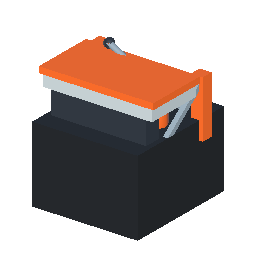
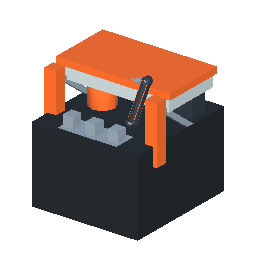
Bridge Device Simulator wheel input and refine map/shop layout

Changed region(s): [[0.1562, 0.0938, 0.8438, 0.6562]]

diff --git a/SpheerURP/Assets/Frontier/Tests/PlayMode/SmokeTests.cs b/SpheerURP/Assets/Frontier/Tests/PlayMode/SmokeTests.cs
@@ -1731,6 +1731,80 @@ namespace Frontier.Tests
             runtime.Ui.DebugReset();
         }
 
+#if UNITY_EDITOR
+        [UnityTest]
+        public IEnumerator DeviceSimulatorPreviewWheelReachesWorldAndMapWithoutLegacyMouseInput()
+        {
+            var simulatorType = typeof(UnityEditor.DeviceSimulation.DeviceSimulatorPlugin).Assembly
+                .GetType("UnityEditor.DeviceSimulation.SimulatorWindow", true);
+            var window = UnityEditor.EditorWindow.GetWindow(simulatorType);
+            window.Show();
+            window.Focus();
+            try
+            {
+                new GameObject("SimulatorWheelBootstrap").AddComponent<FrontierBootstrap>();
+                float deadline = Time.realtimeSinceStartup + 30;
+                while (FrontierRuntime.Current == null && Time.realtimeSinceStartup < deadline) yield return null;
+                var rt = FrontierRuntime.Current;
+                Assert.IsNotNull(rt);
+                deadline = Time.realtimeSinceStartup + 20;
+                while (rt.Ui.DebugBusy && Time.realtimeSinceStartup < deadline) yield return null;
+                rt.State.DismissFirstSessionGuide();
+                rt.Ui.DebugReset();
+                rt.Planet.Zoom01 = 0f;
+                yield return new WaitForSecondsRealtime(1f);
+                var view = window.rootVisualElement.Query<VisualElement>().ToList()
+                    .FirstOrDefault(element => element.GetType().FullName == "UnityEditor.DeviceSimulation.DeviceView");
+                Assert.IsNotNull(view, "Exercise Unity's actual Simulator preview, not a stand-in panel.");
+                Assert.Greater(view.worldBound.width, 0f);
+                string lastTarget = "";
+                Assert.IsTrue(window.rootVisualElement.Query<Label>().ToList()
+                    .Any(label => label.text.StartsWith("Scroll over the simulated screen")),
+                    "Unity must discover and attach the Frontier Simulator plugin.");
+                rt.Ui.DebugRoot.RegisterCallback<WheelEvent>(evt =>
+                {
+                    var target = evt.target as VisualElement;
+                    lastTarget = target == null ? "(none)" : target.name + " at " + evt.mousePosition;
+                }, TrickleDown.TrickleDown);
+                void Wheel(float delta)
+                {
+                    using (var evt = WheelEvent.GetPooled(new Event { type = EventType.ScrollWheel,
+                        mousePosition = view.worldBound.center, delta = new Vector2(0f, delta) }))
+                    {
+                        evt.target = view;
+                        view.SendEvent(evt);
+                    }
+                }
+                Wheel(-3f);
+                yield return null;
+                Assert.AreEqual(0.12f, rt.Planet.Zoom01, 0.001f,
+                    "The actual Simulator preview tree must forward wheel events to the runtime panel.");
+                Wheel(3f);
+                yield return null;
+                Assert.AreEqual(0f, rt.Planet.Zoom01, 0.001f);
+                Wheel(3f);
+                yield return null;
+                Wheel(3f);
+                Assert.IsTrue(rt.Ui.DebugMapMinimal, "Outward Simulator scrolling must enter the minimal map.");
+                yield return new WaitForSecondsRealtime(0.8f);
+                Wheel(-3f);
+                yield return new WaitForSecondsRealtime(1.4f);
+                Assert.IsFalse(rt.Ui.DebugMapOpen, "Simulator scrolling must also reach the map's return gesture. Last target: " + lastTarget);
+                rt.Ui.DebugShop(0);
+                yield return null;
+                var shopScroll = rt.Ui.DebugRoot.Q<FrontierModal>().Q<ScrollView>();
+                Assert.IsNotNull(shopScroll);
+                float scrollBefore = shopScroll.scrollOffset.y;
+                Wheel(30f);
+                yield return null;
+                Assert.Greater(shopScroll.scrollOffset.y, scrollBefore,
+                    "Simulator wheel input over a shop must scroll its real content, not only be ignored by zoom.");
+                Assert.IsFalse(rt.Ui.DebugMapOpen, "Wheel events over the shop must not leak into world zoom.");
+            }
+            finally { window.Close(); }
+        }
+#endif
+
         [UnityTest]
         public IEnumerator WorldOverzoomTransitionsToMinimalMapAndControlsStayOptional()
         {
@@ -1808,6 +1882,18 @@ namespace Frontier.Tests
             Assert.AreEqual(DisplayStyle.None, rt.Ui.DebugRoot.Q(className: "fr-map-card").resolvedStyle.display);
             Assert.AreEqual(DisplayStyle.None, rt.Ui.DebugRoot.Q(className: "fr-map-search").resolvedStyle.display);
             Assert.AreEqual(DisplayStyle.Flex, rt.Ui.DebugRoot.Q("map-location-bar").resolvedStyle.display);
+            var minimalAxes = rt.Ui.DebugMapOrbitAxes(rt.State.planet);
+            Assert.AreEqual(0.65f, minimalAxes.y / minimalAxes.x, 0.0001f);
+            var info = rt.Ui.DebugRoot.Q<Button>("map-show-controls");
+            Assert.IsTrue(info.Query<Label>().ToList().Any(label => label.text == "Info"));
+            using (var submit = NavigationSubmitEvent.GetPooled()) { submit.target = info; info.SendEvent(submit); }
+            yield return null;
+            var fullAxes = rt.Ui.DebugMapOrbitAxes(rt.State.planet);
+            Assert.AreEqual(minimalAxes.y / minimalAxes.x, fullAxes.y / fullAxes.x, 0.0001f,
+                "Showing or hiding map info may resize the chart uniformly, never stretch its orbits vertically.");
+            var hideInfo = rt.Ui.DebugRoot.Q<Button>("map-hide-controls");
+            using (var submit = NavigationSubmitEvent.GetPooled()) { submit.target = hideInfo; hideInfo.SendEvent(submit); }
+            yield return null;
             var location = rt.Ui.DebugRoot.Q<Label>("map-location");
             Assert.AreEqual(UiText.Get("map.location.planet", rt.State.planet.Name, rt.State.planet.Star.Name), location.text);
             rt.Ui.DebugMapZoomStep(false);
@@ -2978,7 +3064,7 @@ namespace Frontier.Tests
                     var lockOverlay = card.Q("shop-research-lock");
                     Assert.AreEqual(lockOverlay == null ? card[0] : card, track.parent);
                     var content = lockOverlay == null ? card : card[0];
-                    Assert.AreEqual(content[content.childCount - 1], count, "Build count is the bottom-right item.");
+                    Assert.AreEqual(content[content.childCount - 2], count, "Build count sits just above the purchase row.");
                     Assert.AreEqual(Align.FlexEnd, count.resolvedStyle.alignSelf);
                     Assert.Less(track.worldBound.yMin, count.worldBound.yMin);
                     var place = card.Q<Button>("shop-place-" + id);
@@ -2986,6 +3072,8 @@ namespace Frontier.Tests
                     Assert.IsNotNull(place, "All Build cards expose their normal purchase action.");
                     Assert.IsNotNull(shardBuy, "All Build cards expose their shard purchase action.");
                     Assert.AreSame(place.parent, shardBuy.parent, "Both purchase options stay on the same row.");
+                    Assert.LessOrEqual(count.worldBound.yMax, place.worldBound.yMin + 1f,
+                        "The right-aligned count belongs above Place/shards, not below them.");
                     var definition = rt.Db.FindStructure(id);
                     if (rt.State.AtLimit(rt.State.planet, definition) || !rt.State.CanBuildHere(definition))
                     {

diff --git a/SpheerURP/Assets/Frontier/Editor/DeviceSimulatorWheelPlugin.cs b/SpheerURP/Assets/Frontier/Editor/DeviceSimulatorWheelPlugin.cs
@@ -1,0 +1,92 @@
+#if UNITY_EDITOR
+using System;
+using System.Reflection;
+using UnityEditor;
+using UnityEditor.DeviceSimulation;
+using UnityEngine;
+using UnityEngine.UIElements;
+
+namespace Frontier.EditorTools
+{
+    public sealed class DeviceSimulatorWheelPlugin : DeviceSimulatorPlugin
+    {
+        VisualElement editorRoot;
+        public override string title { get { return "Frontier wheel input"; } }
+
+        public override VisualElement OnCreateUI()
+        {
+            var hint = new Label("Scroll over the simulated screen to zoom. Menus keep their own scrolling.");
+            hint.style.whiteSpace = WhiteSpace.Normal;
+            hint.RegisterCallback<AttachToPanelEvent>(evt =>
+            {
+                Disconnect();
+                editorRoot = evt.destinationPanel.visualTree;
+                editorRoot.RegisterCallback<WheelEvent>(ForwardWheel, TrickleDown.TrickleDown);
+            });
+            hint.RegisterCallback<DetachFromPanelEvent>(evt => Disconnect());
+            return hint;
+        }
+
+        public override void OnDestroy() { Disconnect(); }
+
+        void Disconnect()
+        {
+            if (editorRoot != null)
+                editorRoot.UnregisterCallback<WheelEvent>(ForwardWheel, TrickleDown.TrickleDown);
+            editorRoot = null;
+        }
+
+        void ForwardWheel(WheelEvent evt)
+        {
+            if (!EditorApplication.isPlaying || EditorApplication.isPaused || evt.delta == Vector3.zero) return;
+            var runtime = FrontierRuntime.Current;
+            if (runtime == null || runtime.Ui == null) return;
+            var view = evt.target as VisualElement;
+            while (view != null && view.GetType().FullName != "UnityEditor.DeviceSimulation.DeviceView")
+                view = view.parent;
+            if (view == null) return;
+
+            // Simulator has no public wheel/screen conversion API; isolate its preview contract here.
+            var type = view.GetType();
+            var transform = ReadProperty<Matrix4x4>(type, view, "ViewToScreen");
+            var insets = ReadProperty<Vector4>(type, view, "ScreenInsets");
+            var orientation = ReadProperty<ScreenOrientation>(type, view, "ScreenOrientation");
+            var width = ReadField<int>(type, view, "m_ScreenWidth");
+            var height = ReadField<int>(type, view, "m_ScreenHeight");
+            Vector2 portrait = transform.MultiplyPoint(view.WorldToLocal(evt.mousePosition));
+            var rendered = new Rect(insets.x, insets.y, width - insets.x - insets.z, height - insets.y - insets.w);
+            if (!rendered.Contains(portrait)) return;
+            Vector2 normalized = Rect.PointToNormalized(rendered, portrait);
+            Vector2 screen = ToRuntimeScreen(normalized, orientation, new Vector2(Screen.width, Screen.height));
+            if (runtime.Ui.EditorSendWheel(screen, evt.delta)) evt.StopPropagation();
+        }
+
+        public static Vector2 ToRuntimeScreen(Vector2 portrait, ScreenOrientation orientation, Vector2 size)
+        {
+            Vector2 normalized;
+            switch (orientation)
+            {
+                case ScreenOrientation.PortraitUpsideDown: normalized = new Vector2(1f - portrait.x, portrait.y); break;
+                case ScreenOrientation.LandscapeLeft: normalized = new Vector2(portrait.y, portrait.x); break;
+                case ScreenOrientation.LandscapeRight: normalized = new Vector2(1f - portrait.y, 1f - portrait.x); break;
+                default: normalized = new Vector2(portrait.x, 1f - portrait.y); break;
+            }
+            return Vector2.Scale(normalized, size);
+        }
+
+        static T ReadProperty<T>(Type type, object target, string name)
+        {
+            var property = type.GetProperty(name, BindingFlags.Instance | BindingFlags.Public | BindingFlags.NonPublic);
+            if (property == null) throw new InvalidOperationException("Frontier simulator wheel: missing preview property " + name);
+            return (T)property.GetValue(target);
+        }
+
+        static T ReadField<T>(Type type, object target, string name)
+        {
+            var field = type.GetField(name, BindingFlags.Instance | BindingFlags.NonPublic);
+            if (field == null) throw new InvalidOperationException("Frontier simulator wheel: missing preview field " + name);
+            return (T)field.GetValue(target);
+        }
+    }
+}
+#endif

diff --git a/SpheerURP/Assets/Frontier/Editor/StructureThumbnails.cs b/SpheerURP/Assets/Frontier/Editor/StructureThumbnails.cs
@@ -32,7 +32,8 @@ namespace Frontier.EditorTools
                 var prefab = ModelLibrary.Prefab(definition.modelKey);
                 if (prefab == null)
                     throw new InvalidOperationException("No thumbnail model for structure " + definition.id);
-                Render(prefab, Folder + "/" + definition.id + ".png");
+                Render(prefab, Folder + "/" + definition.id + ".png",
+                    definition.id == "warehouse" || definition.id == "fabricator" ? 180f : 0f);
             }
             AssetDatabase.Refresh();
             foreach (var definition in GameDatabase.Load().structures)
@@ -50,7 +51,7 @@ namespace Frontier.EditorTools
             Debug.Log("Frontier: baked structure thumbnails from the in-game ModelLibrary.");
         }
 
-        static void Render(GameObject prefab, string path)
+        static void Render(GameObject prefab, string path, float yaw)
         {
             var scene = EditorSceneManager.NewPreviewScene();
             var target = new RenderTexture(Resolution, Resolution, 24, RenderTextureFormat.ARGB32);
@@ -60,6 +61,7 @@ namespace Frontier.EditorTools
             {
                 var model = ModelLibrary.InstantiateInert(prefab);
                 SceneManager.MoveGameObjectToScene(model, scene);
+                model.transform.rotation = Quaternion.Euler(0f, yaw, 0f);
                 if (!ModelLibrary.MeshBounds(model, out var bounds))
                     throw new InvalidOperationException("No mesh bounds for thumbnail " + prefab.name);
 

diff --git a/SpheerURP/Assets/Frontier/Scripts/UI/UIRoot.Map.cs b/SpheerURP/Assets/Frontier/Scripts/UI/UIRoot.Map.cs
@@ -132,7 +132,7 @@ namespace Frontier
             mapLocation = UiKit.Text("", "fr-small");
             mapLocation.name = "map-location";
             mapLocationBar.Add(mapLocation);
-            var controls = IconBtn(UiText.Get("map.controls"), "gear", UiKit.Cyan, () => SetMapMinimal(false));
+            var controls = IconBtn(UiText.Get("map.controls"), "about", UiKit.Cyan, () => SetMapMinimal(false));
             controls.name = "map-show-controls";
             mapLocationBar.Add(controls);
             mapView.Add(mapLocationBar);
@@ -607,9 +607,11 @@ namespace Frontier
             int index = mapPlanets.FindIndex(p => p.Id == planet.Id);
             // The chart is deliberately schematic: evenly spaced lanes keep inner planets readable.
             float fraction = (index + 1f) / Mathf.Max(1, mapPlanets.Count);
-            float outerX = Mathf.Max(80, (float)viewport.Width * 0.5f - 100);
-            float outerY = Mathf.Max(64, (float)viewport.Height * 0.5f - 72);
-            return new Vector2(Mathf.Lerp(64, outerX, fraction), Mathf.Lerp(48, outerY, fraction));
+            const float orbitAspect = 0.65f;
+            float outerX = Mathf.Max(80, Mathf.Min((float)viewport.Width * 0.5f - 100,
+                ((float)viewport.Height * 0.5f - 72) / orbitAspect));
+            float radiusX = Mathf.Lerp(64, outerX, fraction);
+            return new Vector2(radiusX, radiusX * orbitAspect);
         }
 
         float NeighborOrbitRadius(StarSystem star)

diff --git a/SpheerURP/Assets/Frontier/Scripts/UI/UIRoot.Zoom.cs b/SpheerURP/Assets/Frontier/Scripts/UI/UIRoot.Zoom.cs
@@ -15,6 +15,24 @@ namespace Frontier
         bool CanZoomWorld { get { return !mapOpen && !busy && !introActive && !defense.Active &&
             modal == null && buildDef == null && shortageOverlay == null; } }
 
+#if UNITY_EDITOR
+        public bool EditorSendWheel(Vector2 screenPosition, Vector2 delta)
+        {
+            if (root == null || root.panel == null || delta == Vector2.zero) return false;
+            var point = RuntimePanelUtils.ScreenToPanel(root.panel,
+                new Vector2(screenPosition.x, ScreenMetrics.Height - screenPosition.y));
+            var target = root.panel.Pick(point);
+            if (target == null) return false;
+            using (var evt = WheelEvent.GetPooled(new Event
+                { type = EventType.ScrollWheel, mousePosition = point, delta = delta }))
+            {
+                evt.target = target;
+                target.SendEvent(evt);
+            }
+            return true;
+        }
+#endif
+
         void UpdateWorldZoomInput()
         {
             if (!CanZoomWorld)

diff --git a/SpheerURP/Assets/Frontier/Scripts/UI/UIRoot.Panels.cs b/SpheerURP/Assets/Frontier/Scripts/UI/UIRoot.Panels.cs
@@ -210,11 +210,11 @@ namespace Frontier
                 actions.Add(buy);
                 if (can && IsFirstSessionBuildTarget(def.kind))
                     AddFirstSessionCue(card, CurrentFirstSessionGuideStep);
-                card.Add(actions);
                 count.name = "shop-count-" + def.id;
                 count.style.alignSelf = Align.FlexEnd;
                 count.style.marginTop = UiKit.Space.S8;
                 card.Add(count);
+                card.Add(actions);
                 if (!string.IsNullOrEmpty(def.unlockResearch) && !gs.IsResearched(def.unlockResearch))
                 {
                     var content = UiKit.Div();

diff --git a/SpheerURP/Assets/Frontier/Scripts/UI/UIRoot.Debug.cs b/SpheerURP/Assets/Frontier/Scripts/UI/UIRoot.Debug.cs
@@ -16,6 +16,7 @@ namespace Frontier
         public bool DebugMapMinimal { get { return mapOpen && mapMinimal; } }
         public bool DebugMapOpen { get { return mapOpen; } }
         public void DebugMapZoomStep(bool inward) { StepMapZoom(inward); }
+        public Vector2 DebugMapOrbitAxes(PlanetData planet) { return PlanetOrbitAxes(planet); }
         public void DebugMinimalMap(float zoom = SystemZoom)
         {
             DebugMap(gs.planet, zoom);

diff --git a/docs/DESIGN.md b/docs/DESIGN.md
@@ -28,12 +28,17 @@ so terrain absorbs the added depth instead of pushing the structure upward; orbi
 The dock retains its four positions: Research / Map / Ship / Build. Ship always opens Cargo in one tap,
 with Tools and Systems beside it. Cargo owns its capacity upgrade; Systems places tank upgrades beside ship fuel
 and lists engine, range, scanner and hull protection. Surface salvage is explicitly not aboard.
+Cargo Compression, including its Quantum Compression tier, is authored future content: it does not yet change
+resource stack sizes, and purchases remain blocked rather than charging for a nonfunctional effect.
 Research has Tech and Improvements (global defense/logistics); completed research is collapsible and available nodes sort first.
 XP-locked research has a gray overlay with a lock and required XP level. Its tracking star remains interactive;
 research cards omit prerequisite-navigation buttons and retain their written requirements.
 Pinch or mouse-wheel zoom interpolates between the original surface and orbit camera endpoints; neither boundary moves.
 The world and map poll the project's active legacy mouse input as well as native UI Toolkit wheel events,
 deduplicated per frame: wheel up zooms in, wheel down zooms out, including map entry/return.
+Unity's Device Simulator does not forward wheel input to the player. An Editor-only Simulator plugin forwards
+wheel events over the rendered device screen into the runtime panel, preserving menu scrolling and UI hit testing.
+Its isolated preview-coordinate adapter accounts for device rotation, bezel, insets and rendering scale.
 Scrolling over shop panels or HUD controls does not zoom the world; zooming the exposed world dismisses a structure popup.
 Continuing outward by a small deliberate amount beyond orbit pulls the camera back while the orbital chart scales/fades in
 over 600 ms. There is no camera toggle. Pinching must start on the world, not a popup/HUD, and suppresses taps/rotation.
@@ -52,11 +57,13 @@ After model revisions, regenerate these textures with `Frontier/Models/Bake Stru
 (`Frontier.EditorTools.StructureThumbnails.Bake` in the Unity runner); no live preview cameras run during gameplay.
 Map zoom has three discrete levels: local planetary orbits, expanded neighboring systems with their orbits, and collapsed
 systems in a wider overview. Plus/minus change one level per press; pinch and wheel use the same levels.
-World overzoom enters a minimal map: only a safe-area location bar, return arrow and Controls action remain.
+World overzoom enters a minimal map: only a safe-area location bar, return arrow and Info action remain.
 The location broadens from current planet/system to nearby systems to the current system's sector coordinates.
-Controls reveals the existing search/filter/destination/travel interface without changing zoom or selection;
+Info reveals the existing search/filter/destination/travel interface without changing zoom or selection;
 the eye action hides it again. The Map dock still opens the full controls directly. Further inward zoom at the
 current planet's local-system level returns smoothly to orbit; another world's selection opens its controls, never teleports.
+Local orbits retain a fixed 0.65 height/width ratio, fitting both viewport bounds with one radius;
+hiding info reveals more chart space without stretching orbits vertically.
 Panning stays near scanner coverage or remembered systems; coordinates outside that space clamp to its nearest edge.
 Map focuses on destinations, resources and travel. Pin location sits under the destination status at top right.
 The route action stays in the destination card footer outside its scrolling details. Prerequisite actions share a
@@ -76,7 +83,9 @@ Missing-material cost and network chips are a single native button containing th
 quantity/name, using the chip's existing boundary. Do not overlay another icon-sized button or add a
 FIND caption/hover box. Pointer interaction keeps the chip's original styling; keyboard focus uses
 its existing border. Cost chips use the same compact content-fitted height whether owned or missing, not the action-button minimum.
-Build cards keep tracking stars top right (including locked/built cards), and their built/limit counts bottom right.
+Build cards keep tracking stars top right (including locked/built cards), and their built/limit counts right-aligned
+just above the Place/shard purchase row. Warehouse and Fabricator previews use a 180-degree model turn for a clearer face;
+in-world model orientation is unchanged.
 Every Build card keeps Place and shard-purchase actions visible on the same row; locked, built-at-limit and active-job
 cards disable those actions without bypassing research, planet, capacity or purchase rules.
 Unlocked structures sort before locked ones within every category, preserving their existing order within each group.
